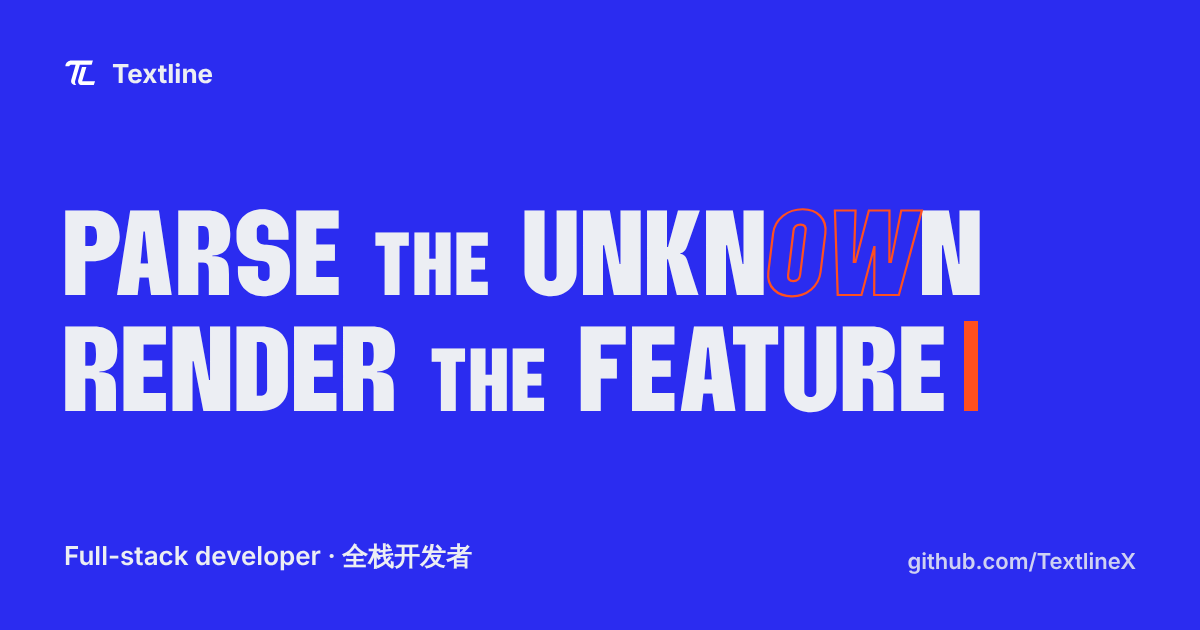
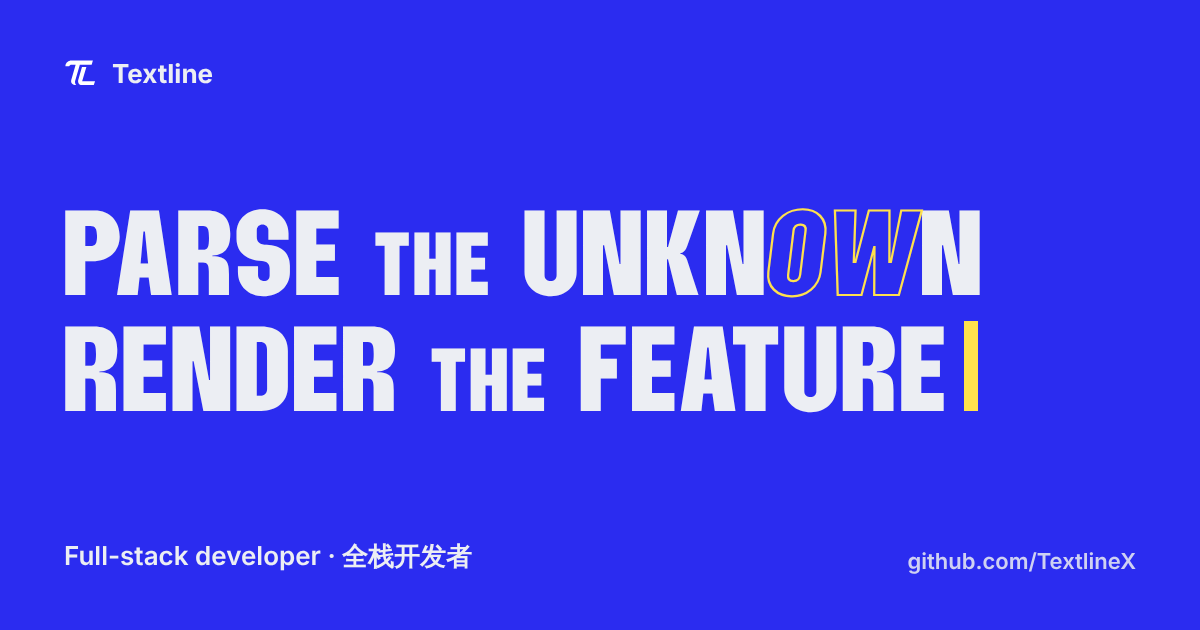
Switch accent palette from orange to lemon yellow and ultramarine
Split the signal colour into --signal (lemon, on blue surfaces) and
--hot (ultramarine on paper, lemon in dark mode) so hover, focus and
active states meet WCAG contrast. Fix the Chinese work index title
wrapping at mid widths and make the share card image yellow.

Changed region(s): [[0.6475, 0.3317, 0.7708, 0.4825], [0.8017, 0.5127, 0.8325, 0.6635]]

diff --git a/src/styles/tokens.css b/src/styles/tokens.css
@@ -22,7 +22,15 @@
   --line: rgba(18, 19, 43, 0.18);
   --hero-bg: #2b2cf0;
   --hero-ink: #eceef3;
-  --signal: #ff4f1f;
+  /* Two accent roles:
+     --signal: on the blue / deep-indigo surfaces (hero, contact, 404, curtain)
+     --hot:    on paper surfaces (hover, focus, active states)
+     Lemon on ultramarine is 5.9:1; ultramarine on paper is 6.7:1. */
+  --signal: #ffe14d;
+  --on-signal: #12132b;
+  --hot: #2b2cf0;
+  --on-hot: #ffffff;
+  --focus: var(--hot);
 
   --font-display: 'Quinn', 'Impact', 'Arial Narrow', sans-serif;
   --font-body: 'Bricolage Grotesque Variable', system-ui, 'PingFang SC', 'Hiragino Sans GB',
@@ -41,7 +49,9 @@
   --line: rgba(232, 233, 255, 0.2);
   --hero-bg: #15175e;
   --hero-ink: #e8e9ff;
-  --signal: #ff6a3d;
+  --signal: #ffe14d;
+  --hot: #ffe14d;
+  --on-hot: #12132b;
 }
 
 *,
@@ -101,7 +111,16 @@ img {
 
 ::selection {
   background: var(--signal);
-  color: #fff;
+  color: var(--on-signal);
+}
+
+/* On the blue surfaces focus rings switch to the signal colour so they stay visible. */
+.hero,
+.contact,
+.nf,
+.curtain,
+.header:not(.header--solid) {
+  --focus: var(--signal);
 }
 
 main:focus {
@@ -109,7 +128,7 @@ main:focus {
 }
 
 :focus-visible {
-  outline: 2px solid var(--signal);
+  outline: 2px solid var(--focus);
   outline-offset: 3px;
 }
 
@@ -143,7 +162,7 @@ main:focus {
 }
 
 .more-link:hover {
-  color: var(--signal);
+  color: var(--hot);
   padding-left: 0.6em;
 }
 

diff --git a/src/pages/about-page.css b/src/pages/about-page.css
@@ -105,7 +105,7 @@
 }
 
 .areas__item:hover .areas__name {
-  color: var(--signal);
+  color: var(--hot);
 }
 
 /* Technology × project matrix */
@@ -157,7 +157,7 @@
 
 .matrix__work a:hover,
 .matrix__tech a:hover {
-  color: var(--signal);
+  color: var(--hot);
 }
 
 .matrix__tech {
@@ -185,16 +185,12 @@
   width: 14px;
   height: 14px;
   vertical-align: middle;
-  background: var(--hero-bg);
-}
-
-:root[data-theme='dark'] .matrix__dot {
-  background: var(--ink);
+  background: color-mix(in srgb, var(--ink) 55%, transparent);
 }
 
 .matrix tbody tr:hover .matrix__dot,
 .matrix .is-hot .matrix__dot {
-  background: var(--signal);
+  background: var(--hot);
 }
 
 @media (max-width: 860px) {

diff --git a/src/components/header.css b/src/components/header.css
@@ -70,7 +70,13 @@
 .header__tool:hover {
   background: var(--signal);
   border-color: var(--signal);
-  color: #fff;
+  color: var(--on-signal);
+}
+
+.header--solid .header__tool:hover {
+  background: var(--hot);
+  border-color: var(--hot);
+  color: var(--on-hot);
 }
 
 @media (max-width: 560px) {
@@ -125,7 +131,8 @@
   z-index: 60;
   padding: 10px 16px;
   background: var(--signal);
-  color: #fff;
+  color: var(--on-signal);
+  border: 2px solid var(--on-signal);
   font-weight: 700;
   border-radius: 999px;
   transform: translateY(-160%);

diff --git a/src/pages/work-page.css b/src/pages/work-page.css
@@ -10,7 +10,7 @@
 }
 
 .work__back:hover {
-  color: var(--signal);
+  color: var(--hot);
 }
 
 .work__name {
@@ -93,7 +93,7 @@
 }
 
 .work__facts a:hover {
-  color: var(--signal);
+  color: var(--hot);
 }
 
 .work__pager {
@@ -123,7 +123,7 @@
 }
 
 .work__prev:hover .work__prev-name {
-  color: var(--signal);
+  color: var(--hot);
 }
 
 .work__position {
@@ -168,7 +168,7 @@
 }
 
 .work__next:hover .work__next-name {
-  color: var(--signal);
+  color: var(--hot);
   transform: translateX(0.1em);
 }
 

diff --git a/src/pages/work-index.css b/src/pages/work-index.css
@@ -123,7 +123,7 @@
 }
 
 .wgrid__item:hover .wgrid__name {
-  color: var(--signal);
+  color: var(--hot);
 }
 
 .wgrid__type {
@@ -158,4 +158,11 @@
   .windex__chips--tech .chip {
     flex: none;
   }
+}
+
+/* Chinese glyphs are about twice as wide as Quinn's condensed capitals, so the title
+   gets its own size and never breaks mid-word. */
+:lang(zh) .windex__title {
+  font-size: clamp(56px, 9vw, 150px);
+  white-space: nowrap;
 }

diff --git a/src/components/command-palette.css b/src/components/command-palette.css
@@ -37,7 +37,7 @@
   font-family: var(--font-display);
   font-size: 34px;
   line-height: 1;
-  color: var(--signal);
+  color: var(--hot);
 }
 
 .palette__input {
@@ -49,7 +49,7 @@
   color: inherit;
   font-size: clamp(18px, 2.4vw, 22px);
   font-weight: 600;
-  caret-color: var(--signal);
+  caret-color: var(--hot);
 }
 
 .palette__input:focus-visible {

diff --git a/src/sections/works.css b/src/sections/works.css
@@ -89,7 +89,7 @@
   .row:hover .row__name,
   .row:focus-visible .row__name {
     transform: translateX(0.12em);
-    color: var(--signal);
+    color: var(--hot);
   }
 
   .works__preview {
